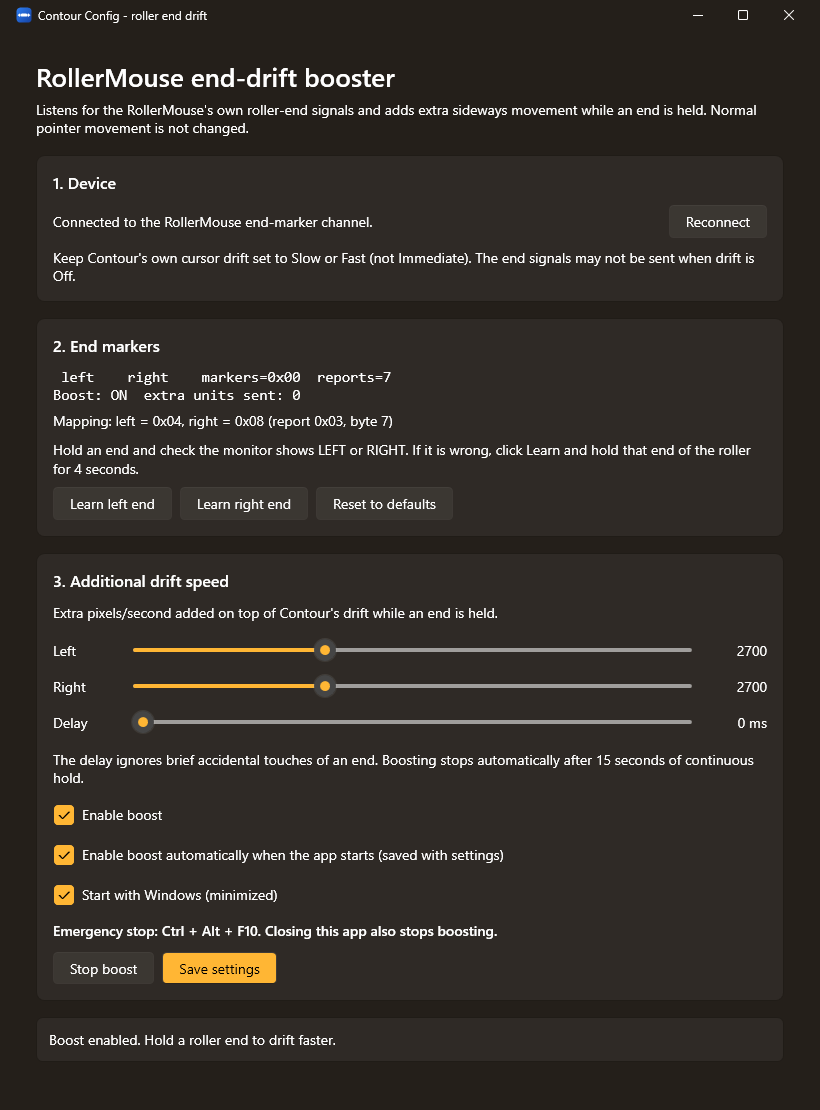
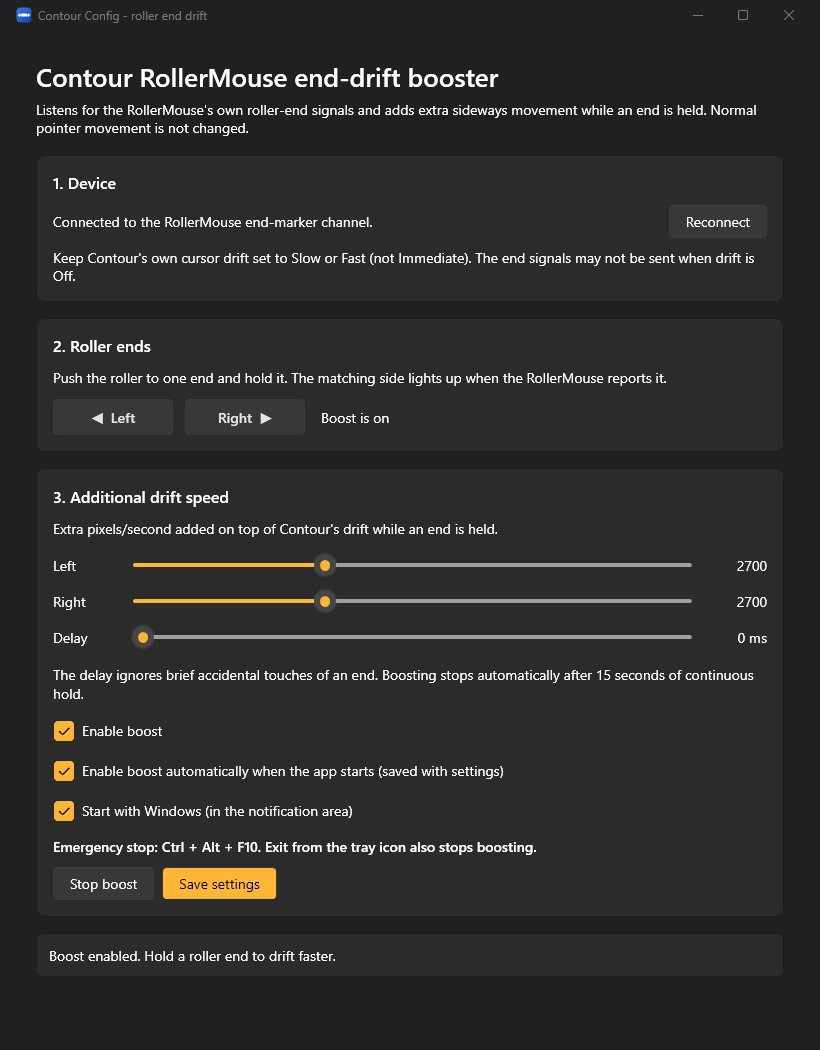
Refactor MainWindow and remove unused MarkerLearner components
Update README and adjust MainWindow layout.
Remove MarkerLearner and its tests as they are no longer needed.

diff --git a/src/ContourConfig.App/MainWindow.xaml b/src/ContourConfig.App/MainWindow.xaml
@@ -7,7 +7,7 @@
         Closed="OnClosed">
   <ScrollViewer VerticalScrollBarVisibility="Auto">
     <StackPanel Margin="28">
-      <TextBlock Text="RollerMouse end-drift booster" FontSize="26" FontWeight="SemiBold" />
+      <TextBlock Text="Contour RollerMouse end-drift booster" FontSize="26" FontWeight="SemiBold" />
       <TextBlock Margin="0,6,0,18" TextWrapping="Wrap"
                  Text="Listens for the RollerMouse's own roller-end signals and adds extra sideways movement while an end is held. Normal pointer movement is not changed." />
       <GroupBox Header="1. Device">
@@ -20,17 +20,21 @@
                      Text="Keep Contour's own cursor drift set to Slow or Fast (not Immediate). The end signals may not be sent when drift is Off." />
         </StackPanel>
       </GroupBox>
-      <GroupBox Header="2. End markers">
+      <GroupBox Header="2. Roller ends">
         <StackPanel>
-          <TextBlock x:Name="MarkerMonitor" FontFamily="Consolas" FontSize="15" Text="Waiting for reports..." />
-          <TextBlock x:Name="MarkerMapping" Margin="0,8,0,10" Text="" />
-          <TextBlock TextWrapping="Wrap" Margin="0,0,0,10"
-                     Text="Hold an end and check the monitor shows LEFT or RIGHT. If it is wrong, click Learn and hold that end of the roller for 4 seconds." />
-          <WrapPanel>
-            <Button x:Name="LearnLeft" Content="Learn left end" Click="OnLearnLeft" />
-            <Button x:Name="LearnRight" Content="Learn right end" Click="OnLearnRight" />
-            <Button Content="Reset to defaults" Click="OnResetMarkers" />
-          </WrapPanel>
+          <TextBlock TextWrapping="Wrap" Margin="0,0,0,12"
+                     Text="Push the roller to one end and hold it. The matching side lights up when the RollerMouse reports it." />
+          <StackPanel Orientation="Horizontal">
+            <Border x:Name="LeftIndicator" Width="120" Padding="0,8" CornerRadius="4" BorderThickness="1" Margin="0,0,12,0"
+                    AutomationProperties.Name="Left end">
+              <TextBlock x:Name="LeftIndicatorText" Text="◀  Left" HorizontalAlignment="Center" FontWeight="SemiBold" />
+            </Border>
+            <Border x:Name="RightIndicator" Width="120" Padding="0,8" CornerRadius="4" BorderThickness="1"
+                    AutomationProperties.Name="Right end">
+              <TextBlock x:Name="RightIndicatorText" Text="Right  ▶" HorizontalAlignment="Center" FontWeight="SemiBold" />
+            </Border>
+            <TextBlock x:Name="BoostState" Margin="16,0,0,0" VerticalAlignment="Center" Text="Boost is off" />
+          </StackPanel>
         </StackPanel>
       </GroupBox>
       <GroupBox Header="3. Additional drift speed">
@@ -73,7 +77,7 @@
           <CheckBox x:Name="EnableOnStart" Margin="0,8,0,0" Content="Enable boost automatically when the app starts (saved with settings)" />
           <CheckBox x:Name="StartWithWindows" Margin="0,8,0,0" Content="Start with Windows (in the notification area)"
                     Checked="OnStartWithWindowsChanged" Unchecked="OnStartWithWindowsChanged" />
-          <TextBlock Margin="0,10,0,12" FontWeight="SemiBold" Text="Emergency stop: Ctrl + Alt + F10. Closing this app also stops boosting." />
+          <TextBlock Margin="0,10,0,12" FontWeight="SemiBold" Text="Emergency stop: Ctrl + Alt + F10. Exit from the tray icon also stops boosting." />
           <WrapPanel>
             <Button Content="Stop boost" Click="OnStopBoost" />
             <Button x:Name="SaveSettings" Content="Save settings" Click="OnSaveSettings" Style="{StaticResource PrimaryButton}" />

diff --git a/src/ContourConfig.App/MainWindow.xaml.cs b/src/ContourConfig.App/MainWindow.xaml.cs
@@ -7,6 +7,7 @@ using System.IO;
 using System.Runtime.InteropServices;
 using System.Threading;
 using System.Windows;
+using System.Windows.Controls;
 using System.Windows.Interop;
 using System.Windows.Threading;
 
@@ -14,8 +15,6 @@ namespace ContourConfig.App
 {
     internal sealed partial class MainWindow : Window
     {
-        private const int LearnMilliseconds = 4000;
-        private const int MinimumLearnedHoldMilliseconds = 1500;
         private readonly SettingsStore settingsStore = new(Path.Combine(
             Environment.GetFolderPath(Environment.SpecialFolder.LocalApplicationData), "ContourConfig", "settings.json"));
         private readonly CancellationTokenSource lifetime = new();
@@ -29,11 +28,8 @@ namespace ContourConfig.App
         private RollerMouseHid? device;
         private CancellationTokenSource? connection;
         private EndDriftBooster? booster;
-        private MarkerLearner? learner;
         private RollerEnd currentEnd;
-        private byte? lastMarkers;
-        private long reportCount;
-        private long sentUnits;
+        private RollerEnd? shownEnd;
         private Thread? boostThread;
         private HwndSource? source;
         private bool hotkeyRegistered;
@@ -129,7 +125,6 @@ namespace ContourConfig.App
             SystemEvents.SessionSwitch += OnSessionSwitch;
             boostThread = new(BoostLoop) { IsBackground = true, Name = "Drift boost", Priority = ThreadPriority.AboveNormal };
             boostThread.Start();
-            ShowMarkerMapping();
             Connect();
             displayTimer.Start();
             reconnectTimer.Tick += OnReconnectTick;
@@ -251,15 +246,11 @@ namespace ContourConfig.App
             double now = clock.Elapsed.TotalMilliseconds;
             lock (gate)
             {
-                reportCount++;
-                if (EndMarkerMap.ReadMarkerByte(report) is not byte value)
+                if (markers.Decode(report) is RollerEnd end)
                 {
-                    return;
+                    currentEnd = end;
+                    booster?.Update(end, now);
                 }
-                lastMarkers = value;
-                learner?.Observe(value, now);
-                currentEnd = markers.Decode(report) ?? RollerEnd.None;
-                booster?.Update(currentEnd, now);
             }
         }
 
@@ -290,10 +281,7 @@ namespace ContourConfig.App
                         Flags = NativeMethods.MouseMoveRelative,
                         ExtraInfo = NativeMethods.InjectionTag
                     };
-                    if (NativeMethods.SendInput(1, input, Marshal.SizeOf<NativeMethods.Input>()) == 1)
-                    {
-                        Interlocked.Add(ref sentUnits, Math.Abs(dx));
-                    }
+                    _ = NativeMethods.SendInput(1, input, Marshal.SizeOf<NativeMethods.Input>());
                 }
                 Thread.Sleep(5);
             }
@@ -326,79 +314,36 @@ namespace ContourConfig.App
             Status.Text = "Boost stopped.";
         }
 
-        private async Task LearnAsync(RollerEnd end)
-        {
-            EmergencyStop();
-            LearnLeft.IsEnabled = LearnRight.IsEnabled = false;
-            Status.Text = $"Hold the {(end == RollerEnd.Left ? "left" : "right")} end of the roller now for {LearnMilliseconds / 1000} seconds...";
-            lock (gate)
-            {
-                learner = new();
-                learner.Observe(lastMarkers ?? 0, clock.Elapsed.TotalMilliseconds);
-            }
-            try
-            {
-                await Task.Delay(LearnMilliseconds, lifetime.Token);
-            }
-            catch (OperationCanceledException)
-            {
-                return;
-            }
-            finally
-            {
-                LearnLeft.IsEnabled = LearnRight.IsEnabled = true;
-            }
-            byte? mask;
-            lock (gate)
-            {
-                mask = learner?.Finish(clock.Elapsed.TotalMilliseconds, MinimumLearnedHoldMilliseconds);
-                learner = null;
-            }
-            if (mask is not byte learned)
-            {
-                ShowError("No end marker was held long enough. Check the Contour drift setting is Slow or Fast and try again.");
-                return;
-            }
-            EndMarkerMap updated = end == RollerEnd.Left ? markers with { LeftMask = learned } : markers with { RightMask = learned };
-            try
-            {
-                updated.Validate();
-            }
-            catch (ArgumentException exception)
-            {
-                ShowError($"Learned 0x{learned:X2}, but {exception.Message} Learn the other end again.");
-                return;
-            }
-            lock (gate)
-            {
-                markers = updated;
-            }
-            ShowMarkerMapping();
-            Status.Text = string.Create(CultureInfo.InvariantCulture, $"Learned {end} end = 0x{learned:X2}. Click Save settings to keep it.");
-        }
-
-        private void ShowMarkerMapping() => MarkerMapping.Text = string.Create(CultureInfo.InvariantCulture,
-            $"Mapping: left = 0x{markers.LeftMask:X2}, right = 0x{markers.RightMask:X2} (report 0x{EndMarkerMap.ReportId:X2}, byte {EndMarkerMap.MarkerByteIndex})");
-
         private void OnDisplayTick(object? sender, EventArgs e)
         {
-            byte? value;
             RollerEnd end;
-            long reports;
             bool boosting;
             lock (gate)
             {
-                value = lastMarkers;
                 end = currentEnd;
-                reports = reportCount;
                 boosting = booster is not null;
             }
-            string left = end == RollerEnd.Left ? "[LEFT]" : " left ";
-            string right = end == RollerEnd.Right ? "[RIGHT]" : " right ";
-            MarkerMonitor.Text = string.Create(CultureInfo.InvariantCulture,
-                $"{left}  {right}   markers=0x{value ?? 0:X2}  reports={reports}\nBoost: {(boosting ? "ON" : "off")}  extra units sent: {Interlocked.Read(ref sentUnits)}");
+            if (end != shownEnd)
+            {
+                shownEnd = end;
+                ShowIndicator(LeftIndicator, LeftIndicatorText, end == RollerEnd.Left);
+                ShowIndicator(RightIndicator, RightIndicatorText, end == RollerEnd.Right);
+            }
+            BoostState.Text = boosting ? "Boost is on" : "Boost is off";
             tray?.Update($"Contour Config\nBoost {(boosting ? "on" : "off")} · {(device is null ? "RollerMouse not connected" : "RollerMouse connected")}",
                 EnableBoost.IsChecked == true, EnableBoost.IsEnabled);
+        }
+
+        // Theme brushes are referenced (not copied) so the indicators follow light/dark mode changes.
+        private static void ShowIndicator(Border indicator, TextBlock text, bool active)
+        {
+            indicator.SetResourceReference(Border.BackgroundProperty,
+                active ? "AccentFillColorDefaultBrush" : "ControlFillColorDefaultBrush");
+            indicator.SetResourceReference(Border.BorderBrushProperty,
+                active ? "AccentFillColorDefaultBrush" : "ControlStrokeColorDefaultBrush");
+            text.SetResourceReference(TextBlock.ForegroundProperty,
+                active ? "TextOnAccentFillColorPrimaryBrush" : "TextFillColorSecondaryBrush");
+            System.Windows.Automation.AutomationProperties.SetHelpText(indicator, active ? "Active" : "Inactive");
         }
 
         private async void OnSaveSettings(object sender, RoutedEventArgs e)
@@ -525,18 +470,6 @@ namespace ContourConfig.App
         }
 
         private void OnReconnect(object sender, RoutedEventArgs e) => Connect();
-        private async void OnLearnLeft(object sender, RoutedEventArgs e) => await LearnAsync(RollerEnd.Left);
-        private async void OnLearnRight(object sender, RoutedEventArgs e) => await LearnAsync(RollerEnd.Right);
         private void OnStopBoost(object sender, RoutedEventArgs e) => EmergencyStop();
-
-        private void OnResetMarkers(object sender, RoutedEventArgs e)
-        {
-            lock (gate)
-            {
-                markers = new();
-            }
-            ShowMarkerMapping();
-            Status.Text = "Marker mapping reset to defaults. Click Save settings to keep it.";
-        }
     }
 }

diff --git a/README.md b/README.md
@@ -5,7 +5,7 @@
 <h1 align="center">Contour Config</h1>
 
 <p align="center">
-  Faster, safer end-of-roller cursor drift for the <b>Contour RollerMouse Red Plus Wireless</b> on Windows.
+  Faster, safer end-of-roller cursor drift for <b>Contour RollerMouse</b> devices on Windows.
 </p>
 
 ---
@@ -35,7 +35,7 @@ The app follows the Windows light/dark setting automatically.
 - ⚡ **Adjustable drift boost:** 0–8000 extra pixels per second, set separately for the left and right ends.
 - ⏱ **Activation delay:** 0–2000 ms, so brief accidental touches are ignored.
 - 🎯 **Uses the hardware end signal:** normal pointer movement is never changed.
-- 🧠 **Learn mode:** detects which signal belongs to which end if your device differs.
+- 🎯 **Roller-end indicators:** verify that your mouse reports the left and right ends.
 - 🚀 **Start with Windows:** starts quietly in the notification area at sign-in and turns the boost on automatically.
 - 🖱 **Lives in the notification area:** no taskbar button. Left-click the tray icon to open the window, right-click for *Open*, *Boost enabled* and *Exit*.
 - 🔌 **Auto-reconnect:** handles the mouse sleeping, Bluetooth reconnects, lock/unlock and sleep/resume.
@@ -46,7 +46,7 @@ The app follows the Windows light/dark setting automatically.
 ## Requirements
 
 - Windows 10 or 11
-- Contour RollerMouse Red Plus Wireless, connected over **Bluetooth** (the USB receiver is untested)
+- A Contour RollerMouse with compatible end-marker reports. Tested with the **RollerMouse Red Plus Wireless** over Bluetooth and the **RollerMouse Pro3**. Other models and connections may work but have not been verified.
 - Nothing else. The installer includes .NET. Building from source needs the [.NET 10 SDK](https://dotnet.microsoft.com/download/dotnet/10.0).
 
 ## Install
@@ -81,8 +81,7 @@ The MSI is written to `installer\bin\x64\Release\ContourConfigSetup.msi`.
 1. **Set Contour's drift to Slow or Fast.** In Contour's own config tool, choose *Slow* or *Fast*, not *Immediate*. The mouse may not send the end signal when drift is *Off*.
    (If you don't want Contour's software running, you can uninstall it afterwards. The setting is stored in the mouse.)
 2. **Check the connection.** Section **1. Device** should say *Connected to the RollerMouse end-marker channel*. If the mouse is asleep, move it and the app reconnects within a few seconds.
-3. **Check the end markers.** Push the roller to the left end and hold it. The monitor in **2. End markers** should show `[LEFT]`. Do the same for the right end, which should show `[RIGHT]`.
-   If an end shows the wrong side or nothing, click **Learn left end** or **Learn right end** and hold that end for 4 seconds.
+3. **Check the roller ends.** Push the roller to each end and hold it. The corresponding **Left** or **Right** indicator in **2. Roller ends** should light up.
 4. **Tune the speed.** In **3. Additional drift speed**:
    - **Left / Right:** the extra pixels per second, added on top of Contour's own drift. Start around 1500 and adjust to taste.
    - **Delay:** how long an end must be held before the boost starts. Use 0 ms for instant boost, or 200–400 ms if you often touch the ends by accident.
@@ -109,15 +108,15 @@ Press <kbd>Ctrl</kbd>+<kbd>Alt</kbd>+<kbd>F10</kbd>, click **Stop boost**, untic
 
 | Symptom                                    | Try                                                                                   |
 |--------------------------------------------|---------------------------------------------------------------------------------------|
-| *RollerMouse not found*                    | Move the mouse to wake it and wait a few seconds. Check it's paired in Bluetooth settings. |
-| Monitor never shows `[LEFT]` / `[RIGHT]`   | Make sure Contour's drift is *Slow* or *Fast*, then use **Learn**.                    |
+| *RollerMouse not found*                    | Move the mouse to wake it and wait a few seconds. Check its connection or Bluetooth pairing. |
+| A roller-end indicator doesn't light up or shows the wrong side | Make sure Contour's drift is *Slow* or *Fast*. Your model or connection may use a different end-marker protocol. |
 | Boost doesn't work in some windows         | Windows blocks injected input into apps running as administrator.                     |
 | *Could not register Ctrl+Alt+F10*          | Another app uses that shortcut. Boost stays disabled without an emergency stop.        |
 | Can't find the window                      | It's hidden in the notification area. Click the tray icon (check the **^** flyout), or start Contour Config again from the Start menu. |
 
 ## How it works
 
-The RollerMouse exposes several HID collections over Bluetooth (`VID 0B33`, `PID 1006`). Its consumer-control collection sends input report `0x03` whenever its state changes. **Byte 7** of that report is a bitfield:
+The app looks for a Contour HID consumer-control collection (`VID 0B33`). On the tested devices, input report `0x03` carries the roller-end state in **byte 7**:
 
 | Bit    | Meaning                     |
 |--------|-----------------------------|
@@ -148,6 +147,7 @@ Settings are stored in `%LOCALAPPDATA%\ContourConfig\settings.json`:
 ```
 
 Invalid files show an error and are never applied silently. Version 1 files from the early prototype are migrated: their speeds are kept.
+Earlier versions may have saved custom marker masks; those masks are still used. To restore the defaults, exit the app and change `LeftMask` to `4` and `RightMask` to `8` in the settings file.
 
 ## Development
 
@@ -162,7 +162,7 @@ To publish a release, either run the [Release workflow](.github/workflows/releas
 
 | Project                          | Contents                                                                                      |
 |----------------------------------|-----------------------------------------------------------------------------------------------|
-| `src/ContourConfig.Core`         | Marker decoding (`EndMarkerMap`), time-based boosting (`EndDriftBooster`), `MarkerLearner`, settings |
+| `src/ContourConfig.Core`         | Marker decoding (`EndMarkerMap`), time-based boosting (`EndDriftBooster`), settings |
 | `src/ContourConfig.App`          | WPF UI (Fluent theme), HID reader (`RollerMouseHid`), `SendInput`, tray icon, startup        |
 | `tests/ContourConfig.Core.Tests.Unit` | xUnit tests for the core logic                                                           |
 | `installer`                      | WiX v5 per-user MSI with setup wizard (`Package.wxs`)                                         |
